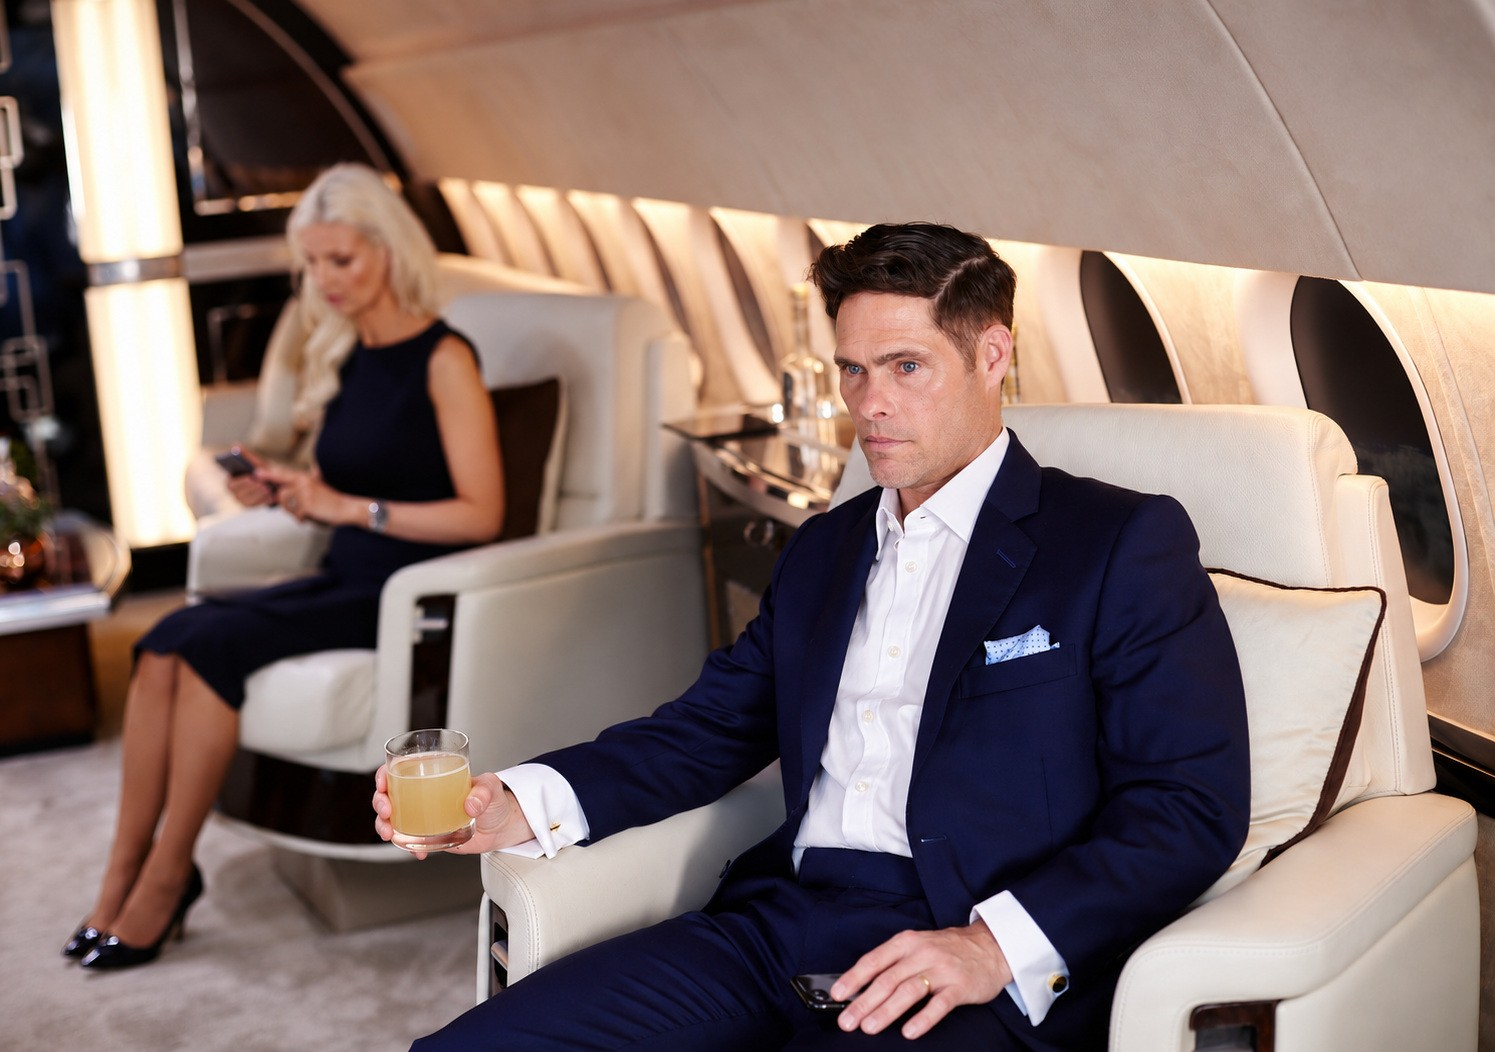
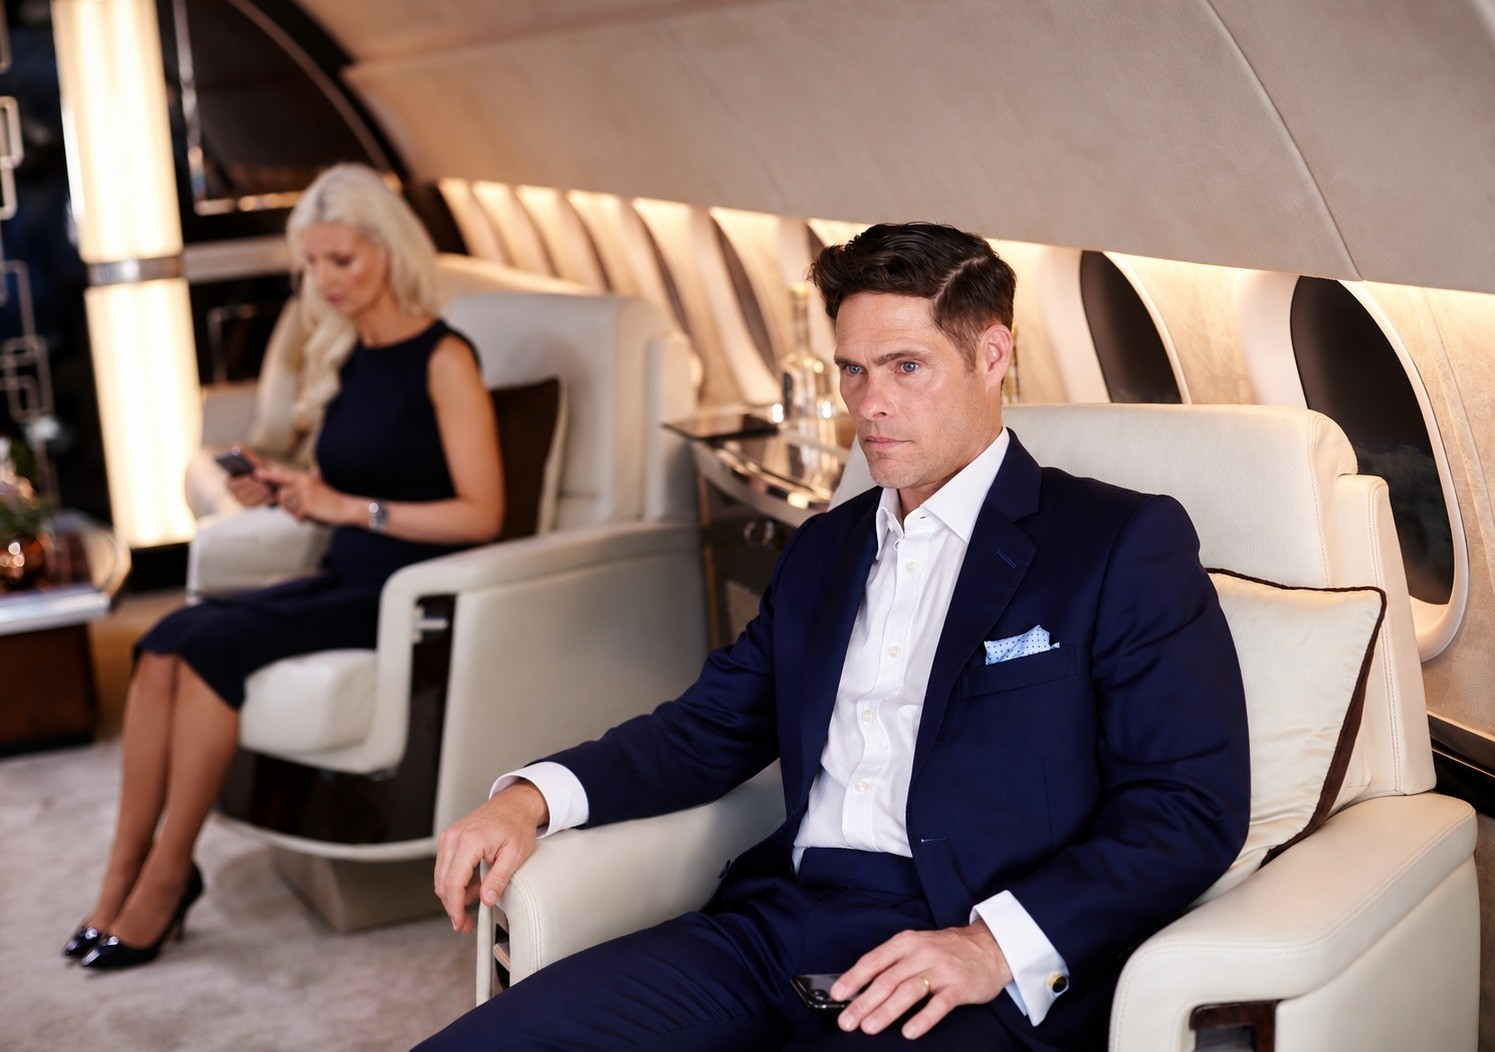
Add files via upload

Changed region(s): [[0.2154, 0.6692, 0.4615, 0.9734], [0.2462, 0.9734, 0.3077, 1.0]]

diff --git a/index.html b/index.html
@@ -1229,7 +1229,7 @@ html body .ed2-who .ed2-v img:not(#z1):not(#z2):not(#z3):not(#z4):not(#z5):not(#
     <h2 id="changes">What changes</h2>
     <h3><span style="display:block">Your thinking becomes your reputation.</span><span style="display:block;color:#a8b0ba">And your reputation starts working for you.</span></h3>
     <p class="cq-lead" style="margin-top:28px">When the right people see your thinking week after week, they come to know your judgement and leadership. Over time, far more opportunities find their way to you.</p>
-    <figure class="edc edc-t" style="margin:48px 0 0"><img loading="lazy" decoding="async" src="img/jet-executive.jpg" alt="An executive travelling by private jet" width="1495" height="1052" style="aspect-ratio:1792/850;object-fit:cover;object-position:50% 8%"></figure><div class="tps tps5">
+    <figure class="edc edc-t" style="margin:48px 0 0"><img loading="lazy" decoding="async" src="img/jet-executive.jpg" alt="An executive travelling by private jet" width="1495" height="1052" style="aspect-ratio:3/2;object-fit:cover;object-position:50% 100%"></figure><div class="tps tps5">
       <div class="tps-i"><div class="tps-n">01</div><div class="tps-h">STATUS</div><p class="tps-p">The boards you sit on know your thinking before you arrive, and new ones invite you to join. Stages, podcasts and the press seek you out.</p></div>
       <div class="tps-i"><div class="tps-n">02</div><div class="tps-h">NETWORK</div><p class="tps-p">Connections with the peers, partners and decision-makers you most want to reach, well beyond the rooms you&rsquo;re already in.</p></div>
       <div class="tps-i"><div class="tps-n">03</div><div class="tps-h">DEAL FLOW AND PARTNERSHIPS</div><p class="tps-p">Buyers, operators and investors who see you as a trusted authority, and want to do business with you.</p></div>
